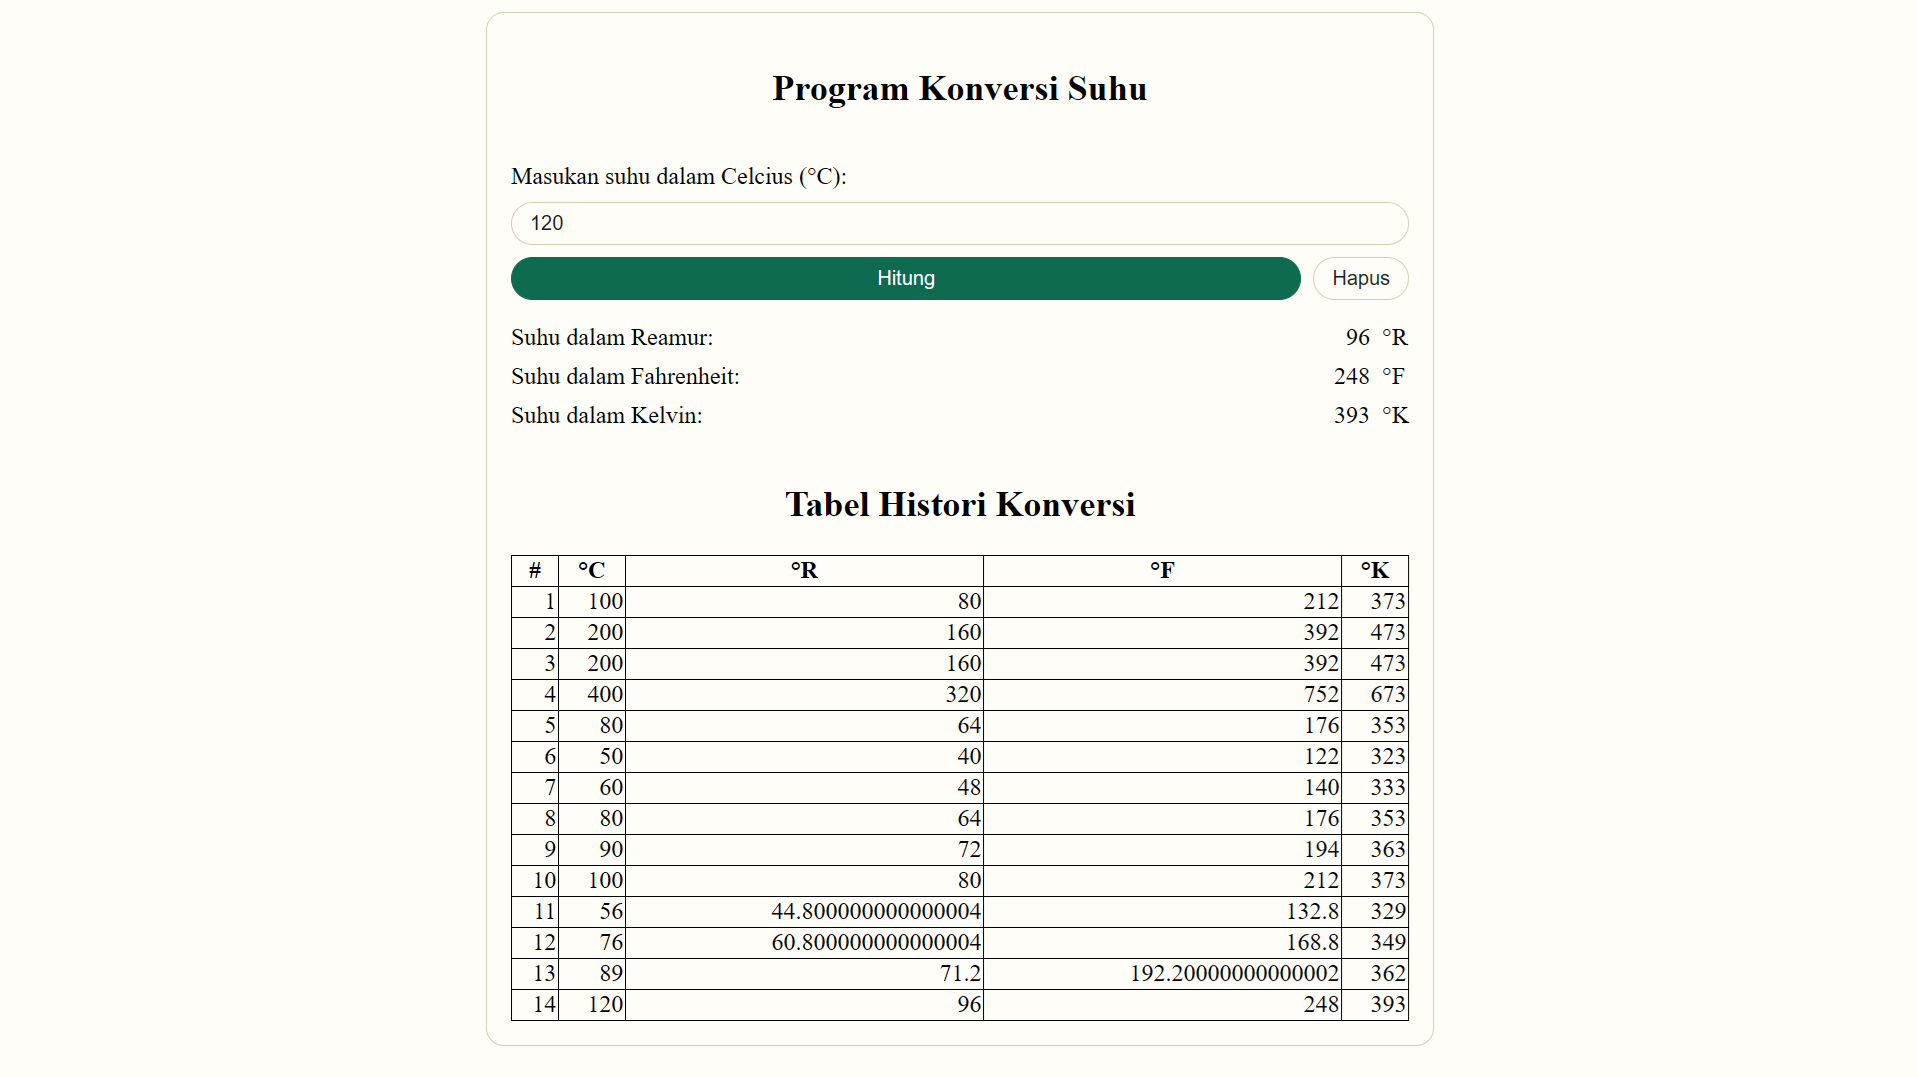
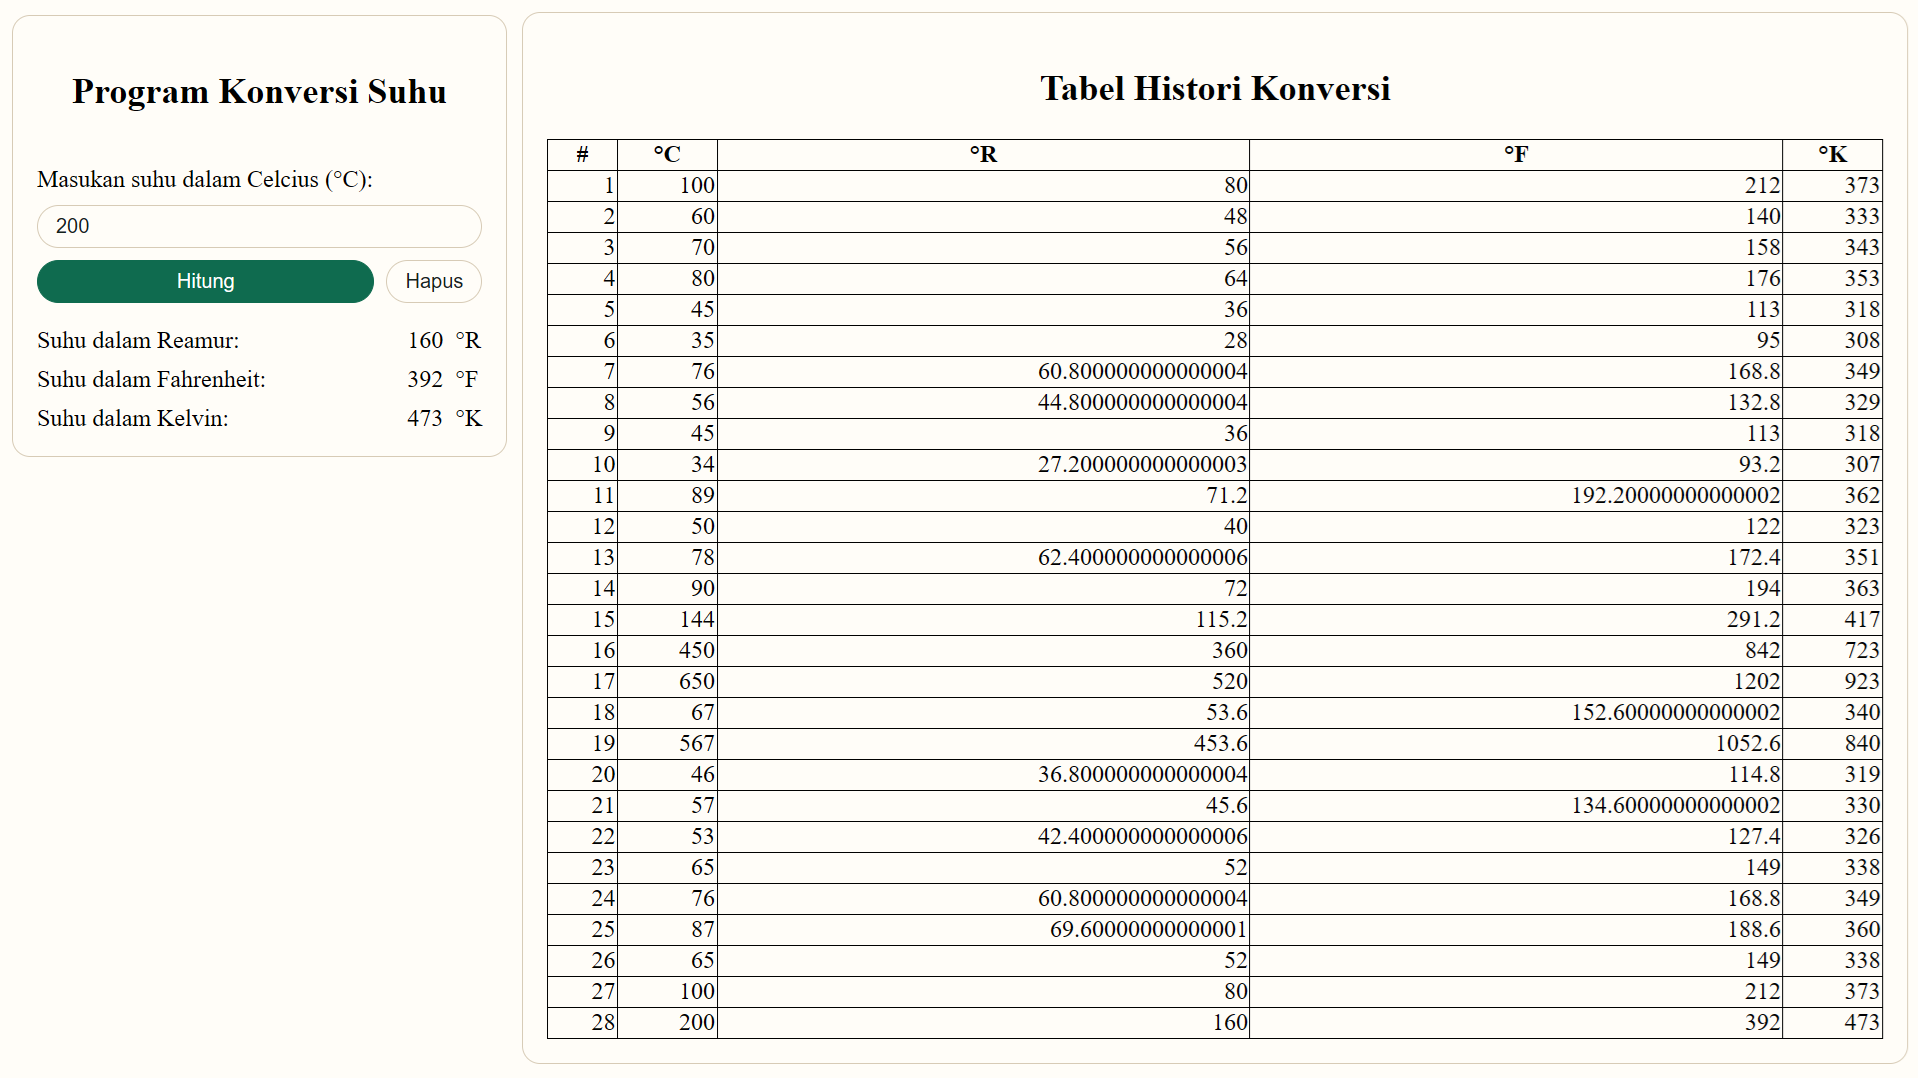
docs: change screenshoot to the latest version

diff --git a/style.css b/style.css
@@ -14,13 +14,31 @@ body {
 }
 
 .main {
-    width: 50%;
-    justify-self: center;
+    display: flex;
+    flex-direction: row;
+    width: 100%;
+    gap: 10px;
+    justify-self: center;   
 }
 
-.card {
+.card-1 {
     display: flex;
     flex-direction: column;
+    width: 25%;
+    padding: 16px;
+    background-color: var(--bg-color-white);
+    border: 1px solid var(--border-color-gray);
+    border-radius: 12px;
+    gap: 16px;
+    height: fit-content;
+    position: sticky;
+    top: 10px;
+}
+
+.card-2 {
+    display: flex;
+    flex-direction: column;
+    width: 75%;
     padding: 16px;
     background-color: var(--bg-color-white);
     border: 1px solid var(--border-color-gray);

diff --git a/index.html b/index.html
@@ -8,7 +8,7 @@
 </head>
 <body>
     <div class="main">
-        <div class="card">
+        <div class="card-1">
             <h2 class="heading">Program Konversi Suhu</h2>
             <form>
                 <div class="input">
@@ -37,6 +37,8 @@
                     <span id="kelvin">°K</span>
                 </div>
             </div>
+        </div>
+        <div class="card-2">
             <div class="table">
                 <h2>Tabel Histori Konversi</h2>
                 <table id="history">
